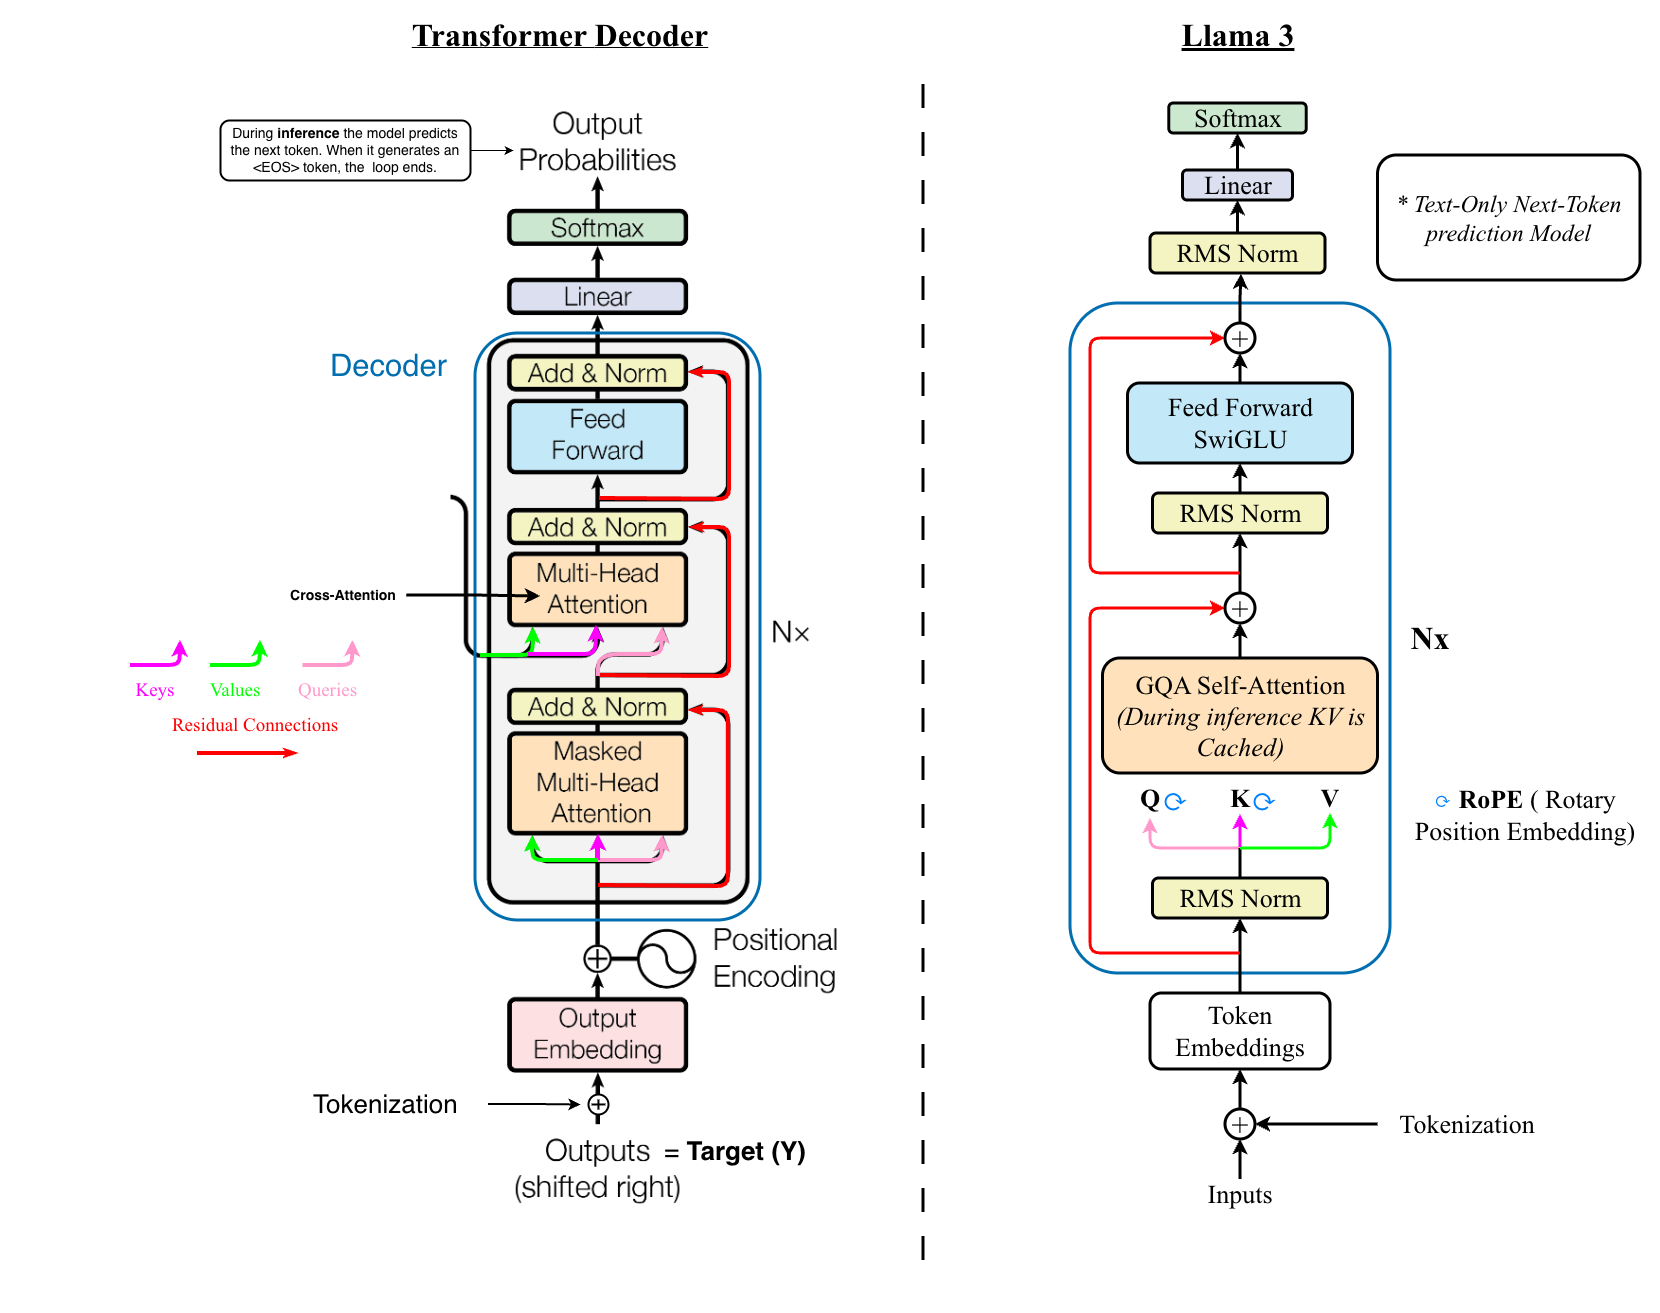
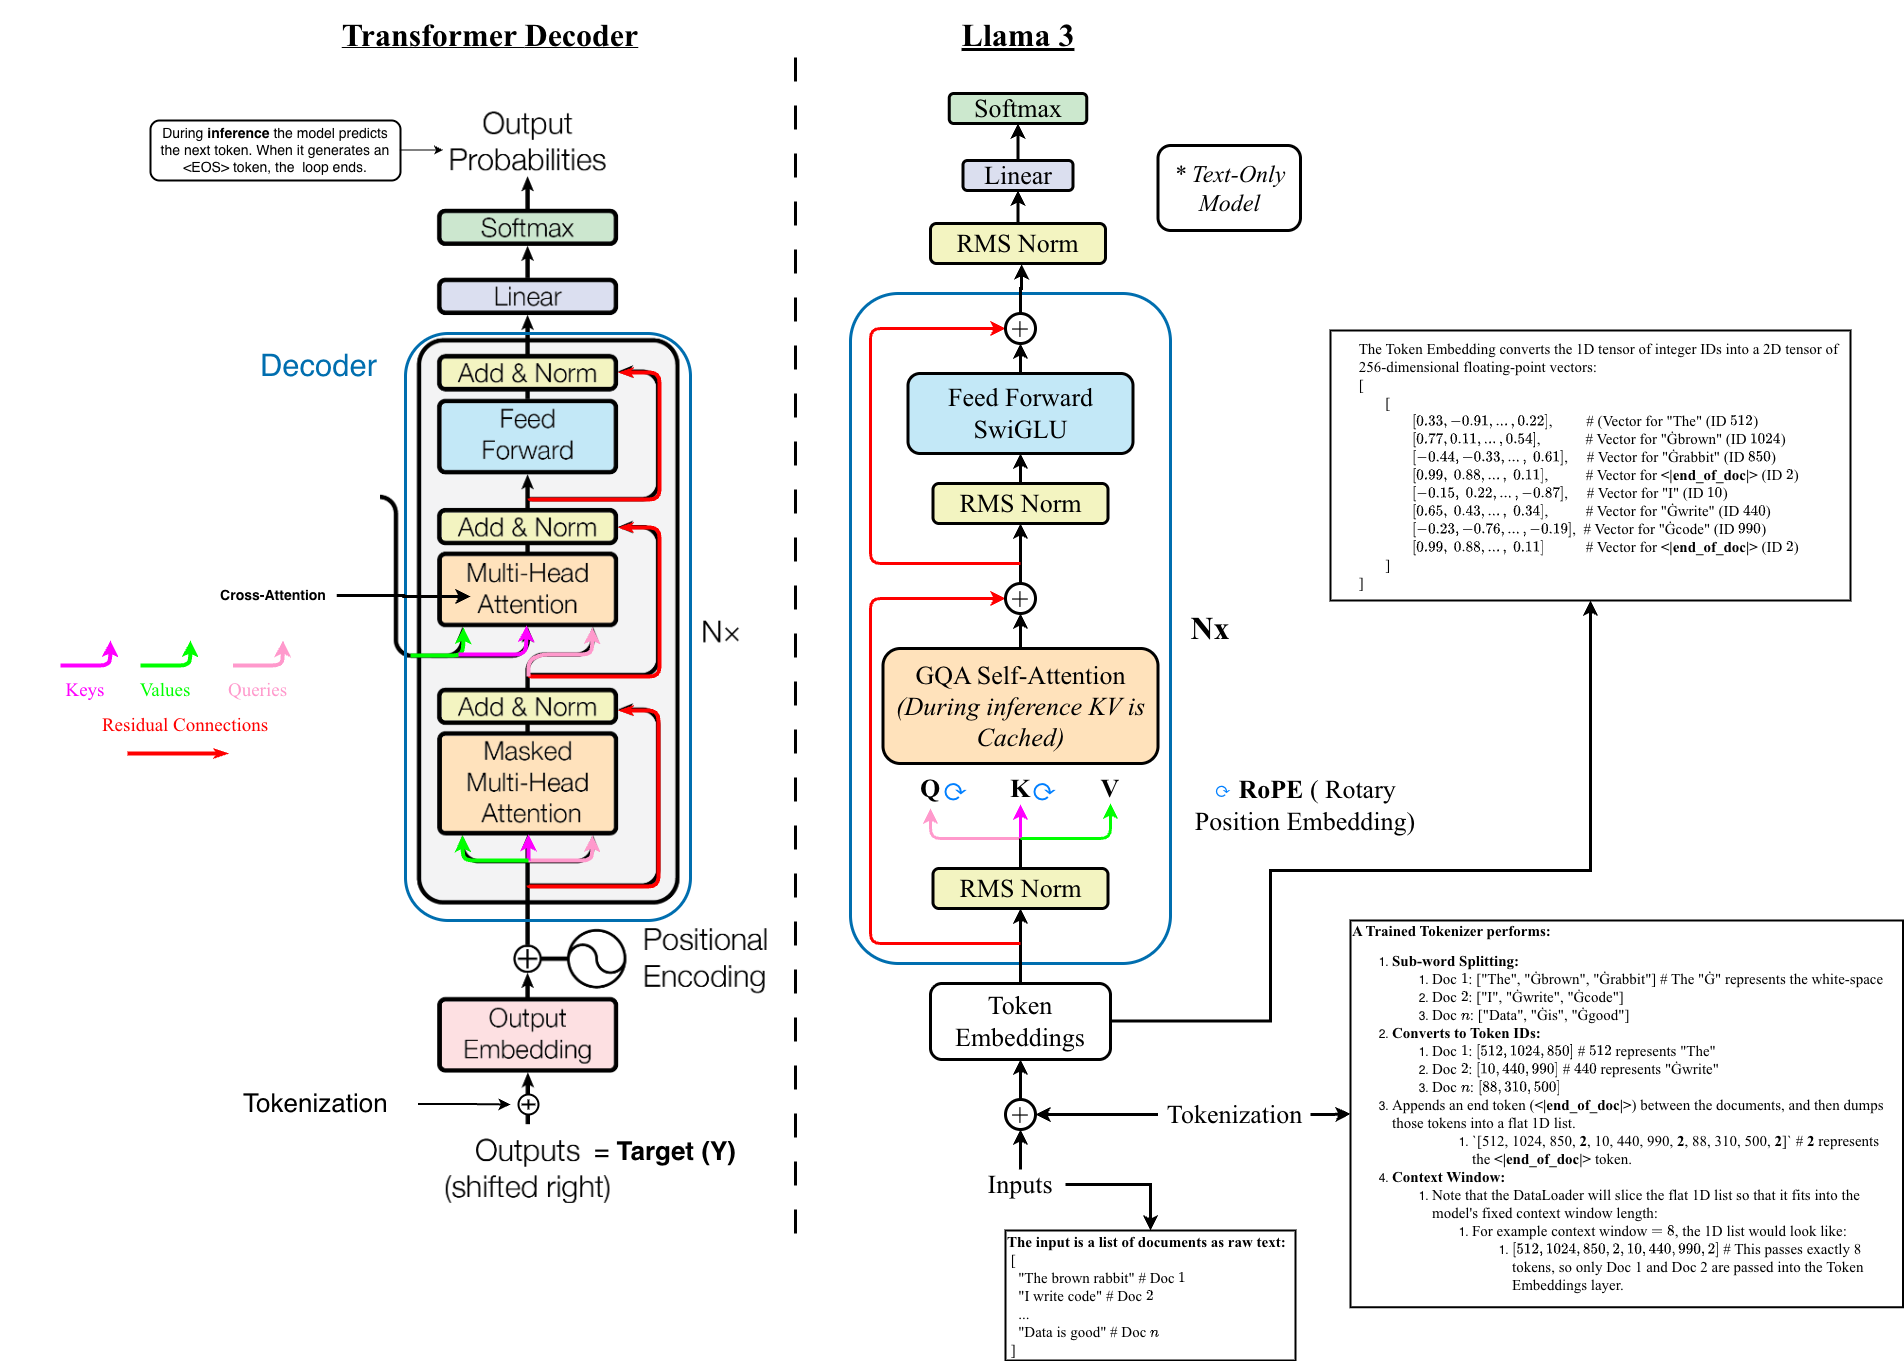
v0.9.1

diff --git a/How_to_build_an_LLM/README.md b/How_to_build_an_LLM/README.md
@@ -17,9 +17,10 @@
   - [x] Add and pre-process the [FineWeb-edu](https://huggingface.co/datasets/HuggingFaceFW/fineweb-edu) subset of the [FineWeb](https://huggingface.co/datasets/HuggingFaceFW/fineweb) dataset. I will only use a small portion of the FineWeb-edu, which is ~5.84 TB, while the FineWeb is ~54.8 TB.
   - [ ] Implement Llama 3 architecture components.
     - [x] Build the [tokenizer](./model/tokenizer.ipynb).
-    - [ ] The transformer [decoder](./model/decoder.ipynb)
     - [ ] [RMSNorm](./model/RMSNorm.ipynb)
-    - [ ] [GQA Attention & RoPE](./model/GroupedQueryAttention.ipynb)
+    - [ ] [RoPE](./model/RoPE.ipynb)
+    - [ ] [GQA Attention](./model/GroupedQueryAttention.ipynb)
+    - [ ] The transformer [decoder](./model/decoder.ipynb)
   - [ ] Train a scaled down model, along side its tokenizer.
 
 - [ ] Implement Multi-modal so that the model works with:
@@ -30,8 +31,9 @@
   - [ ] Vision
 - [ ] Import a pre-trained Llama model to showcase a SOTA model.
 
-## Architecture
+## Llama 3 Architecture
 
+-#TODO make sure this image looks decent in new tab
 ![Llama 3 Architecture Text-Only](./showcase_images/llama_and_transformer_diagram.png)
 
 - ✨ All the model's layers are implemented in their own notebooks in [./model](./model/).

diff --git a/How_to_build_an_LLM/notes.md b/How_to_build_an_LLM/notes.md
@@ -10,4 +10,3 @@ Why **RoPE** is only on Q and K: The attention mechanism calculates the relevanc
 
 **SwiGLU:** "We replace the ReLU non-linearity by the SwiGLU activation function..." (This confirms step 11).
 
-**Rotary Embeddings (RoPE):** "We replace the absolute positional embeddings... with rotary positional embeddings (RoPE)... at each layer of the network."